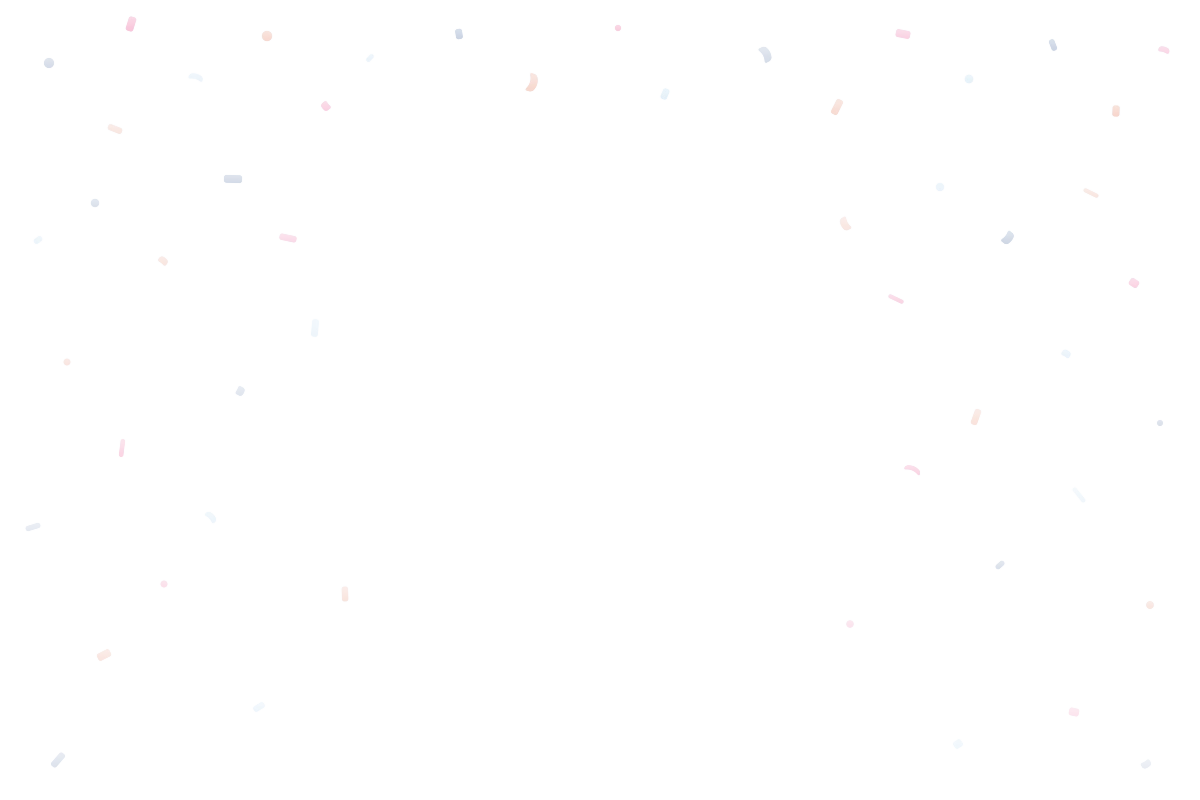
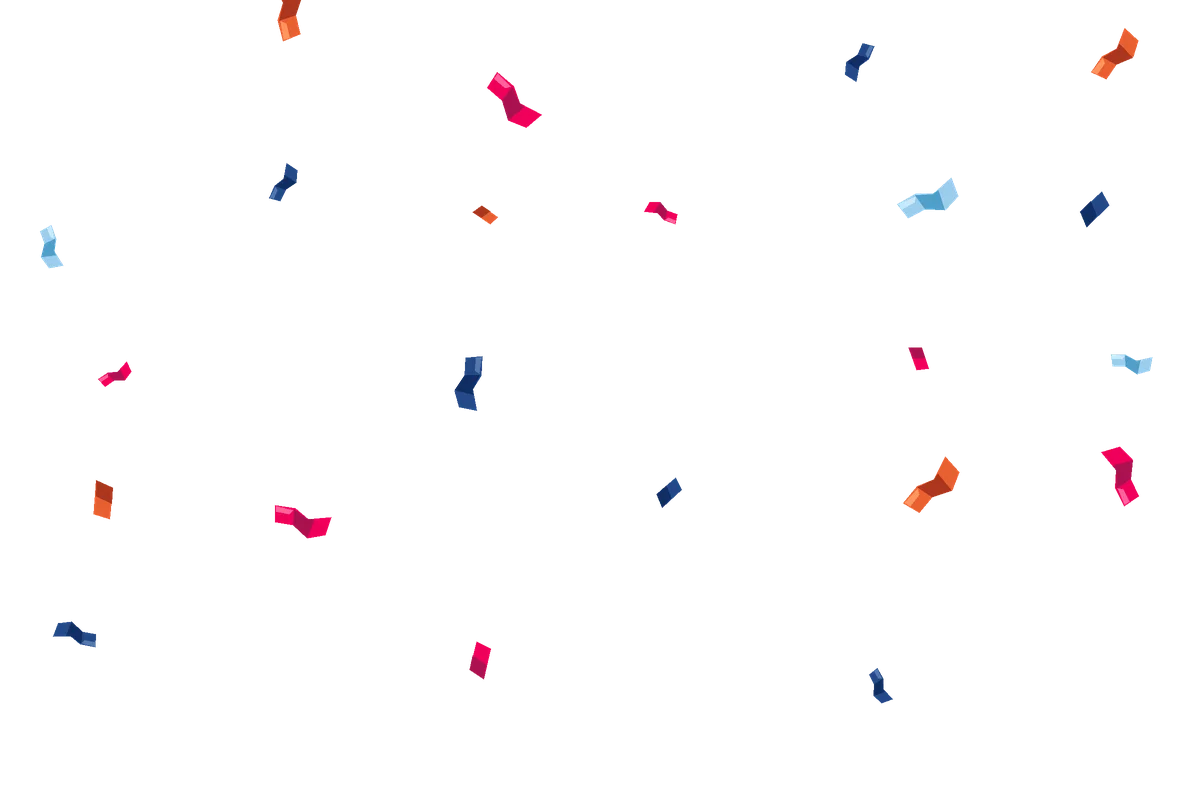
desain(G10-12): pita, garis lintasan, konfeti, dan latar stadion (#194)
Pengganti G9-12 bernama sama di public/aset/gambar/pola/, tanpa pola titik; titik-halus.webp tidak dibuat ulang.

diff --git a/desain/catatan/G10-12.md b/desain/catatan/G10-12.md
@@ -1,0 +1,21 @@
+# G10-12 Pola dan hiasan latar
+
+| Berkas | Ukuran | Format | KB |
+|---|---|---|---:|
+| `pita-sudut.webp` | 800 × 800 | WebP alfa | 48,80 |
+| `garis-lintasan.webp` | 1600 × 160 | WebP alfa | 3,47 |
+| `konfeti.webp` | 1200 × 800 | WebP alfa | 22,60 |
+| `bintik-stadion.webp` | 1920 × 1080 | WebP | 74,00 |
+
+Prompt dasar dan tambahan tetap berikut dipakai bersama adegan di tabel. Garis tinta, bayangan keras, dan palet mengacu pada rujukan lintasan.
+
+> 2D cel-shaded sports anime illustration, school-age track athletes, dynamic sprint poses, bold linework, crisp shadow shapes, low-angle track composition, brand-colored jerseys. Clean background, no text, no letters, no numbers, no logos, no watermark, modest sportswear, Indonesian school kids, original characters.
+
+| Berkas | Ringkasan arahan gambar |
+|---|---|
+| `pita-sudut.webp` | Sapuan panjang biru, oranye dan magenta muncul dari sudut kanan atas. |
+| `garis-lintasan.webp` | Lintasan merah bata tipis dengan dua garis jalur putih. |
+| `konfeti.webp` | Pita dan potongan kertas biru, oranye, magenta dan biru muda yang jatuh jarang. |
+| `bintik-stadion.webp` | Lampu pada kedua sisi stadion, sinar panjang bergaris serta langit senja biru-oranye yang diperlembut. |
+
+Pita, lintasan, dan potongan kertas dirender dari bentuk grafis. Latar stadion memakai ilustrasi cel-shaded dengan pelunakan untuk pemakaian layar penuh. Empat nama berkas dipertahankan agar pengganti Tahap 9 langsung terbaca.
